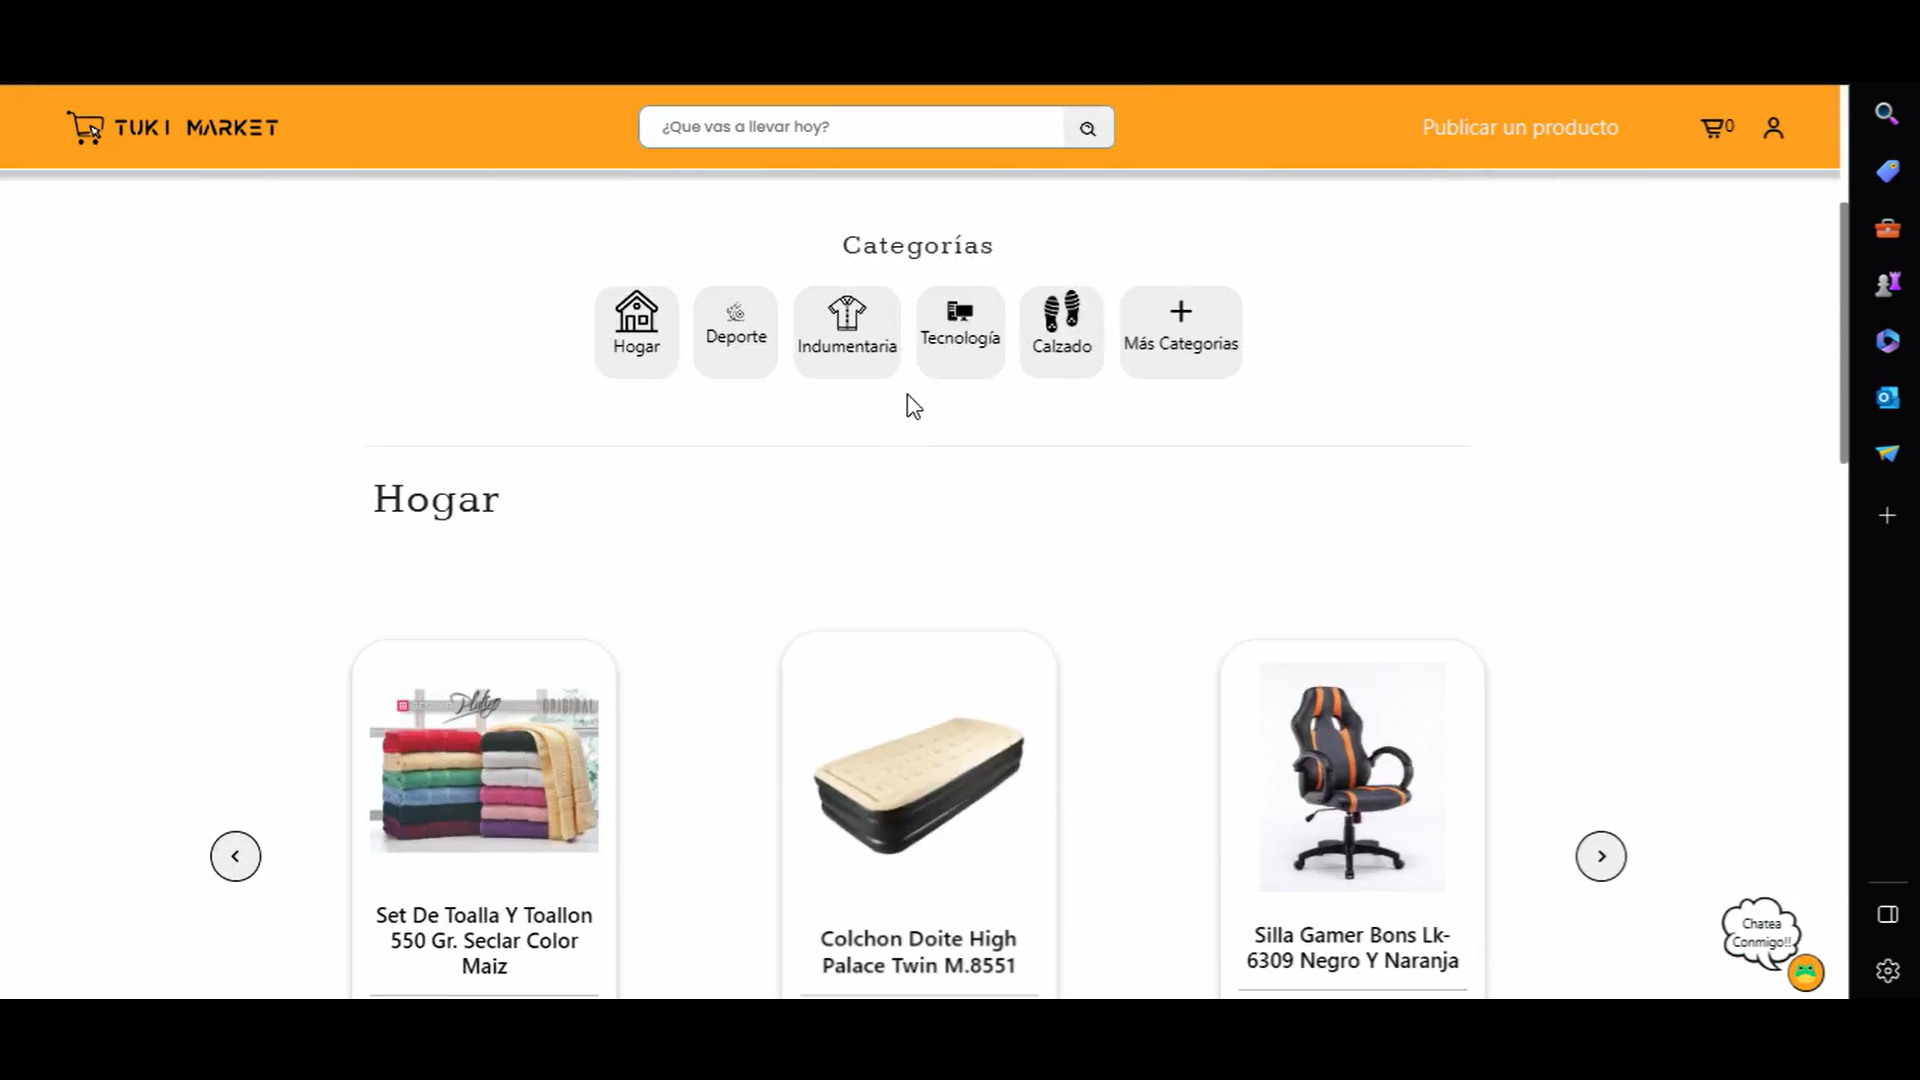
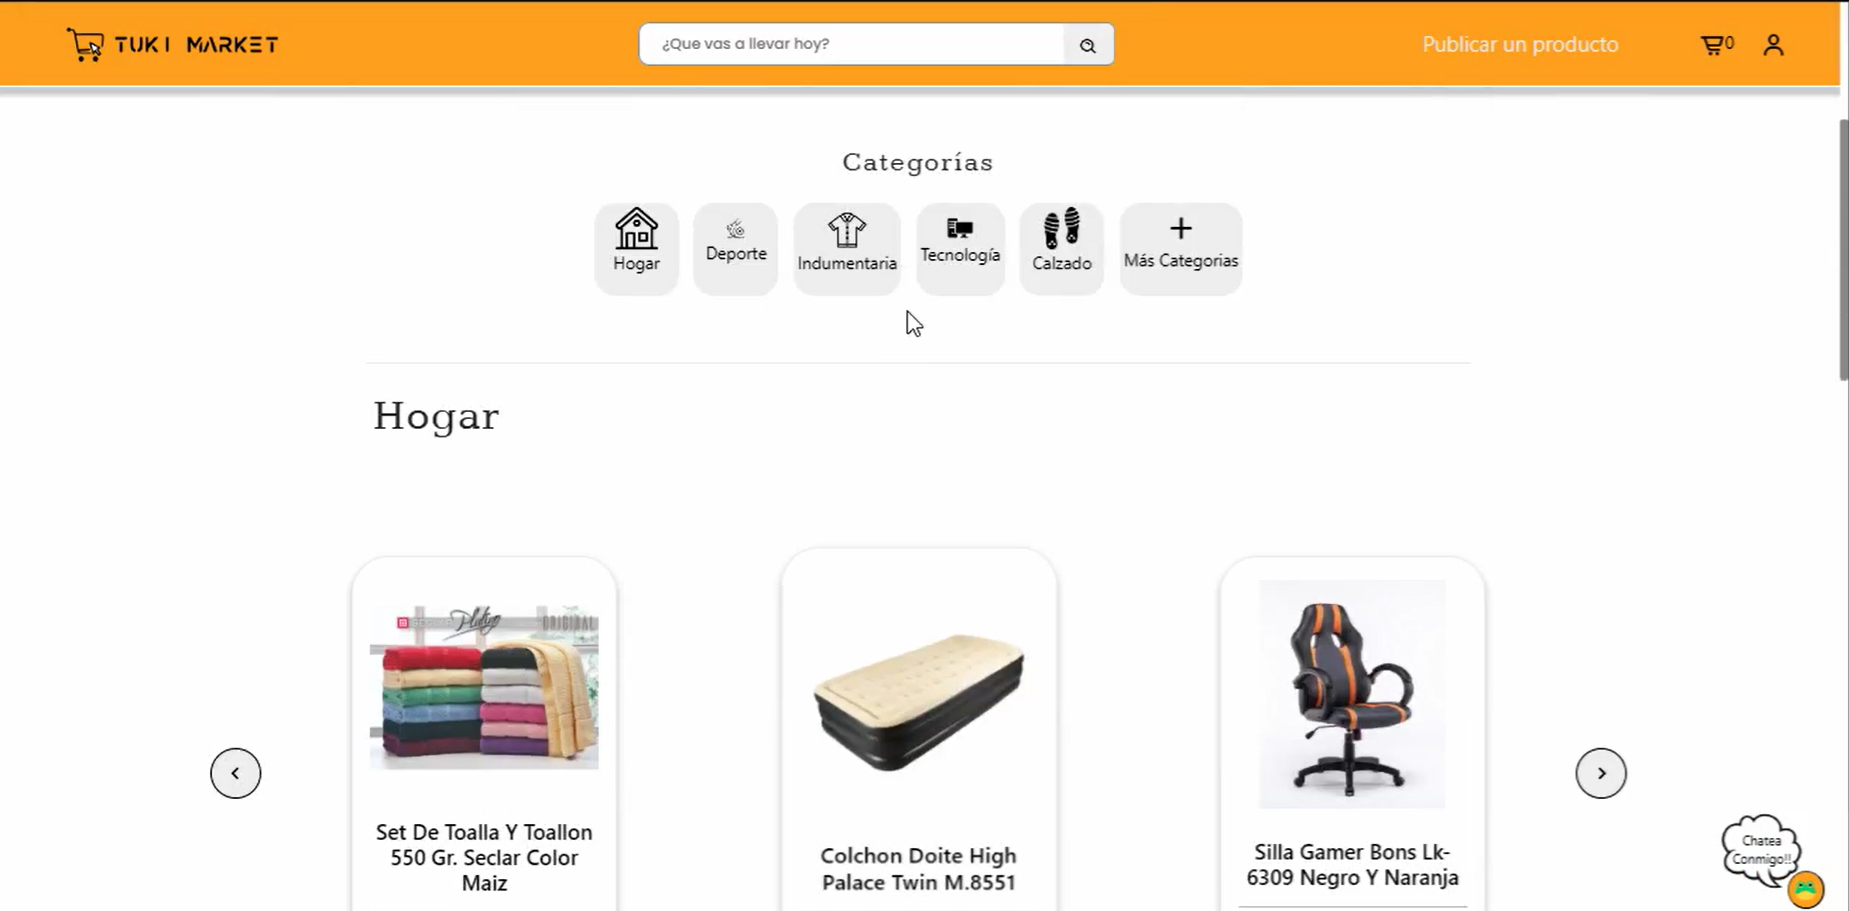
Cambios en cards

diff --git a/Porfolio-V2/src/Componentes/Cards/cards.module.css b/Porfolio-V2/src/Componentes/Cards/cards.module.css
@@ -1,8 +1,9 @@
 .div{
     flex-wrap:wrap;
     display: flex;
-    justify-content:space-between;
-    gap: 40px 30px;
+    justify-content:center;
+
+    gap: 40px 40px;
 }
 
 .h1{

diff --git a/Porfolio-V2/src/Componentes/Card/card.module.css b/Porfolio-V2/src/Componentes/Card/card.module.css
@@ -1,7 +1,7 @@
 .card{
     position: relative;
-    width: 600px;
-    height: 350px;
+    width: 500px;
+    height: 300px;
 }
 .face{
     position: absolute;
